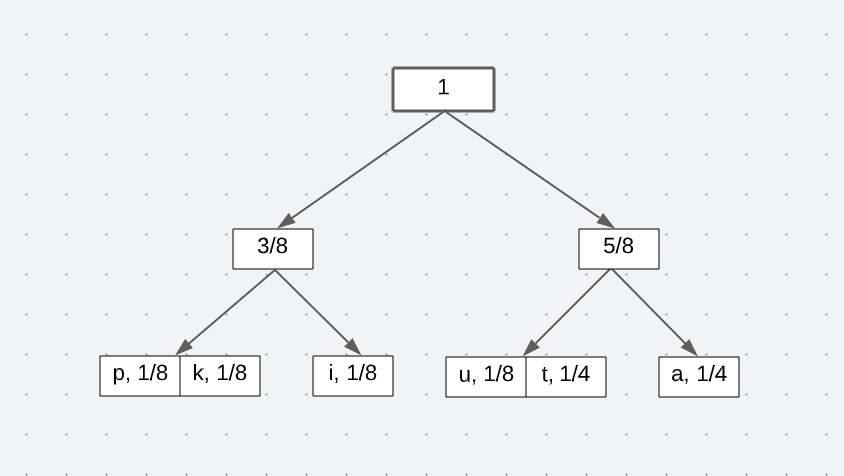
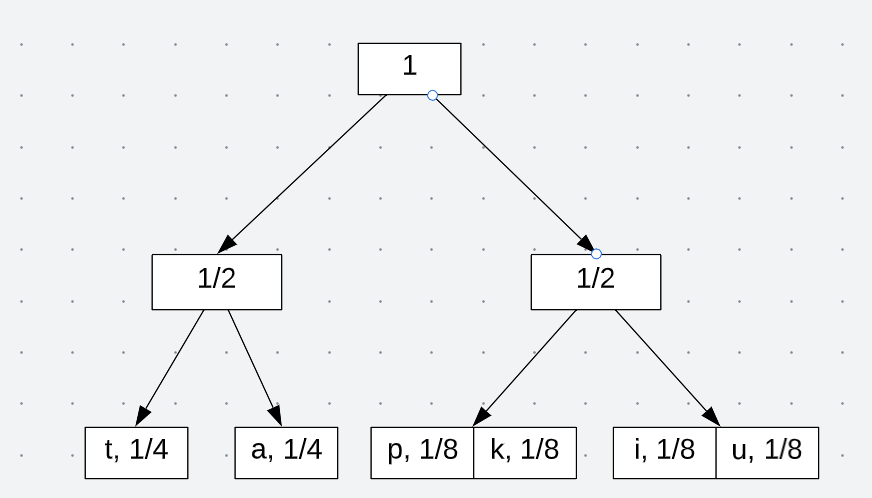
Updated algorithm after finding bits to be too long for a given probability

diff --git a/_posts/2022-08-25-Information-Theory-In-Language-Part-1.md b/_posts/2022-08-25-Information-Theory-In-Language-Part-1.md
@@ -348,8 +348,9 @@ bits. But how we go about building that tree is what separates these two algorit
 Let's start with Shannon Fano encoding and use the example in the passage. The 
 pseudocode is defined:
 
-1. Organize the probabilities with its associated symbol in sorted order
-2. Split the symbols down the middle to create a new set
+1. Organize the probabilities with its associated symbol in sorted descending order
+2. Split the symbols down the middle where each sets total probability is close to
+one another.
 3. Reference back to the total probability 
 value of the original list (Should end up to be 100% for the first time around)
 4. Perform Step 2-4 again for each set until you end up with leaf nodes that 
@@ -357,11 +358,13 @@ contain one value
 5. Assign the least probable references with 0 and most probable references with 1
 for the entire tree
 
-Let's see this in action. First, the organized probabilities with its symbol:
+Let's see this in action. First, the organized probabilities with its symbol in
+descending order:
 
 ![shannon_fano_encoding_1.png](/assets/post3/shannon_fano_encoding_1.png)
 
-Now we split the array down the middle:
+Now we split the array based on how close the probabilities are to one another. In
+this case, we get a nice 50-50 split:
 
 ![shannon_fano_encoding_2.png](/assets/post3/shannon_fano_encoding_2.png)
 
@@ -428,8 +431,10 @@ again and reorganized tree
 
 [Summery of all Encoding Techniques with Mention of Entropy](https://www.jncet.org/Manuscripts/Volume-6/Issue-5/Vol-6-issue-5-M-02.pdf)
 
+[Encoding Algorithm Walkthrough for Shannon-Fano](https://www.geeksforgeeks.org/shannon-fano-algorithm-for-data-compression/)
+
 [Difference Between Huffman and Shannon-Fano Codings (NOTE: Encoding for Shannon-Fano 
-here is wrong due to graph being left oriented vs right. This would create more bits for a higher probability!)](https://iq.opengenus.org/huffman-coding-vs-fano-shannon-algorithm/)
+here is wrong due to more bits being produced for a higher probability!)](https://iq.opengenus.org/huffman-coding-vs-fano-shannon-algorithm/)
 
 <cite>Claude Shannon, A mathematical theory of communication, Bell System Technical Journal, Vol. 27, 1948</cite>
 
